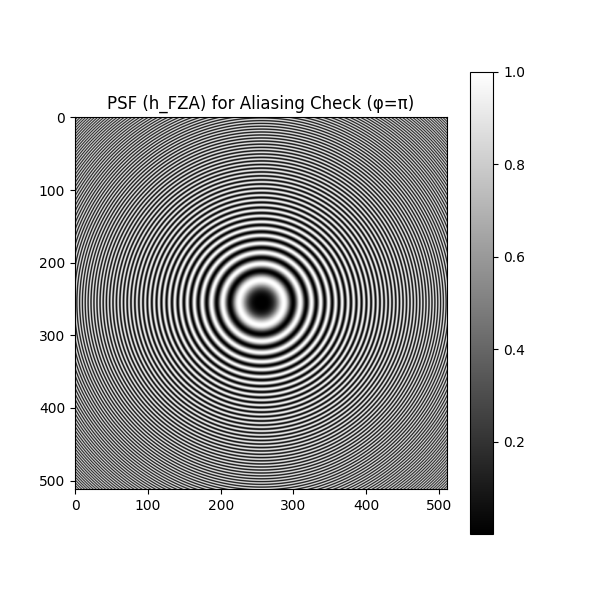
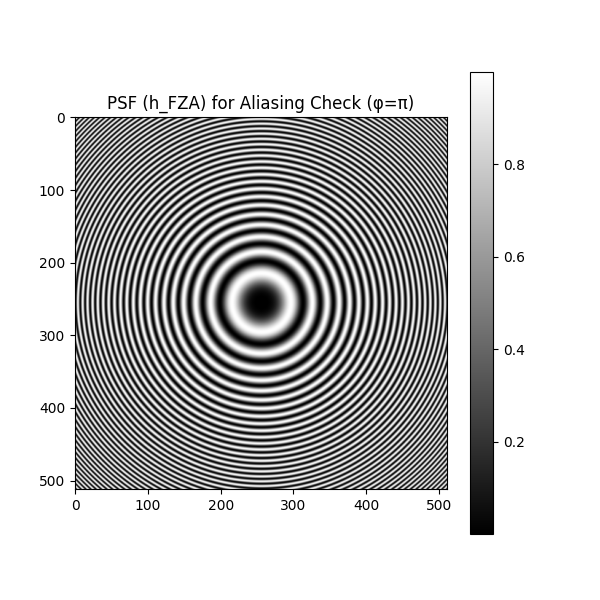
update

diff --git a/FZA_mask_reconstructed_add_noise_compare.py b/FZA_mask_reconstructed_add_noise_compare.py
@@ -35,67 +35,43 @@ def generate_code_images(R_ch,G_ch,B_ch,phases,beta_prime,X,Y):
 
 
 # ホワイトガウスノイズを付加、12bit量子化
-# def add_noise_and_quantization(coded_images,snr_db):
-#     print(f"\n{snr_db}dBのノイズ付加および12bit量子化...")
+def add_noise_and_quantization(coded_images,snr_db):
+    print(f"\n{snr_db}dBのノイズ付加および12bit量子化...")
 
-#     quantization_lebels=2**12-1
+    # 信号パワーの計算
+    signal_power=np.mean(coded_images[0]**2)
 
-#     # 信号パワーの計算
-#     signal_power=np.mean(coded_images[0]**2)
+    # ノイズパワーの計算とノイズ生成
+    # snr(dB)からノイズの標準偏差を計算
+    snr_linear=10**(snr_db/10)
+    noise_power=signal_power/snr_linear
+    noise_sigma=np.sqrt(noise_power)
 
-#     # ノイズパワーの計算とノイズ生成
-#     # snr(dB)からノイズの標準偏差を計算
-#     snr_linear=10**(snr_db/10)
-#     noise_power=signal_power/snr_linear
-#     noise_sigma=np.sqrt(noise_power)
-
-#     print(noise_sigma)
-
-#     noisy_images=[]
-#     for img in coded_images:
-#         # 各画像にガウスノイズを付加
-#         noise=np.random.normal(0,noise_sigma,img.shape)
-#         noisy_images.append(img+noise)
-    
-#     # 12bitへの量子化
-
-#     # すべてのノイズ付加画像に共通のスケールを適用するため最大値最小値をもとめる
-#     global_min=min(np.min(img) for img in noisy_images)
-#     global_max=max(np.max(img) for img in noisy_images)
-
-#     quantized_images=[]
-#     for img in noisy_images:
-#         # データを0～1の範囲にスケーリング
-#         scaled_img=(img-global_min)/(global_max-global_min)
-#         # 0～2095(2**12-1)の範囲に変換し整数を丸める
-#         quantized_img_int=np.round(scaled_img*quantization_lebels)
-#         # 後の研鑽のためにfloat型へ
-#         quantized_images.append(quantized_img_int.astype(np.float64))
-    
-#     print("処理終了")
-#     return quantized_images
-    
-import numpy as np
-
-def add_awgn_then_quantize_snr(coded_images, snr_db=30.0, bit_depth=12):
-    Q = 2**bit_depth - 1
-    # スケーリング基準はノイズ前のデータから取得
-    global_min = min(np.min(img) for img in coded_images)
-    global_max = max(np.max(img) for img in coded_images)
-    scale = Q / max(global_max - global_min, 1e-12)
-
-    # SNR[dB]→ノイズ標準偏差（ノイズはスケーリング前の単位で加える）
-    signal_power = np.mean(np.stack(coded_images, axis=0)**2)
-    noise_sigma = np.sqrt(signal_power / (10**(snr_db/10)))
-
-    out = []
+    noisy_images=[]
     for img in coded_images:
-        noisy = img + np.random.normal(0, noise_sigma, img.shape)     # AWGN
-        quantized = np.round((noisy - global_min) * scale)             # 12bit量子化
-        quantized = np.clip(quantized, 0, Q)
-        out.append(quantized.astype(np.float64))
-    return out
+        # 各画像にガウスノイズを付加
+        noise=np.random.normal(0,noise_sigma,img.shape)
+        noisy_images.append(img+noise)
+    
+    # 12bitへの量子化
+    quantization_lebels=2**12-1
 
+    # すべてのノイズ付加画像に共通のスケールを適用するため最大値最小値をもとめる
+    global_min=min(np.min(img) for img in noisy_images)
+    global_max=min(np.max(img) for img in noisy_images)
+
+    quantized_images=[]
+    for img in noisy_images:
+        # データを0～1の範囲にスケーリング
+        scaled_img=(img-global_min)/(global_max-global_min)
+        # 0～2095(2**12-1)の範囲に変換し整数を丸める
+        quantized_img_int=np.round(scaled_img*quantization_lebels)
+        # 後の研鑽のためにfloat型へ
+        quantized_images.append(quantized_img_int.astype(np.float64))
+    
+    print("処理終了")
+    return quantized_images
+    
 
 
 
@@ -212,7 +188,7 @@ def visualize_noise_effect(original_coded_img, processed_coded_img):
     # RGBのノイズを平均して白黒（グレースケール）に変換
     noise_grayscale = np.mean(noise_residual, axis=-1)
     
-    # print(noise_grayscale)
+    print(noise_grayscale)
 
     # --- 可視化 ---
     fig, axes = plt.subplots(1, 3, figsize=(18, 6))
@@ -292,6 +268,42 @@ def visualize_final_result(original_img, reconstructed_image_raw):
     plt.show()
 
 
+
+
+# 結果比較用の可視化関数
+def visualize_reconstruction_comparison(original, reconstructed_clean, reconstructed_noisy, snr_db):
+    """元画像、ノイズなし再構成画像、ノイズあり再構成画像を並べて表示する"""
+    
+    # 表示用に画像を0-255のuint8に正規化する関数
+    def normalize_for_display(img_raw):
+        img_min, img_max = np.min(img_raw), np.max(img_raw)
+        if img_max > img_min:
+            return ((img_raw - img_min) / (img_max - img_min) * 255).astype(np.uint8)
+        return img_raw.astype(np.uint8)
+
+    clean_display = normalize_for_display(reconstructed_clean)
+    noisy_display = normalize_for_display(reconstructed_noisy)
+    
+    fig, axes = plt.subplots(1, 3, figsize=(18, 6))
+    fig.suptitle("compare", fontsize=16)
+    
+    axes[0].imshow(original)
+    axes[0].set_title("original")
+    
+    axes[1].imshow(clean_display)
+    axes[1].set_title("reconstruncted (no noise)")
+    
+    axes[2].imshow(noisy_display)
+    axes[2].set_title(f"reconstruncted (add noise), SNR={snr_db}dB)")
+    
+    for ax in axes:
+        ax.axis('off')
+        
+    plt.tight_layout(rect=[0, 0, 1, 0.95])
+    plt.savefig('final_comparison.png')
+    plt.show()
+
+
 # -----------------------------------------------------------------------
 
 
@@ -327,21 +339,29 @@ if __name__ == '__main__':
 
     # 処理を順に実行
     # 符号化画像を生成
-    coded_images=generate_code_images(R_channel,G_channel,B_channel,phases,beta_prime,X,Y)
+    coded_images_clean=generate_code_images(R_channel,G_channel,B_channel,phases,beta_prime,X,Y)
 
-    # ホワイトガウスノイズ付加と量子化
-    snr_db=30.0
-    processed_coded_images=add_awgn_then_quantize_snr(coded_images, snr_db=30.0, bit_depth=12)
-    # ノイズの影響を可視化
-    visualize_noise_effect(coded_images[0], processed_coded_images[0])
-
-    # フリンジスキャンを実行
-    g_FS_R,g_FS_G,g_FS_B=synthesize_fringe_scan(processed_coded_images)
+    # --- 3. ケース1: ノイズなしの場合の再構成プロセス ---
+    print("\n--- ケース1: ノイズなし再構成を開始 ---")
+    g_FS_R_clean, g_FS_G_clean, g_FS_B_clean = synthesize_fringe_scan(coded_images_clean)
+    reconstructed_clean = reconstruct_image(g_FS_R_clean, g_FS_G_clean, g_FS_B_clean, beta_prime, X, Y)
+    print("✓ ノイズなし再構成完了")
     
-    # 画像を再生成
-    reconstructed_image_raw=reconstruct_image(g_FS_R,g_FS_G,g_FS_B,beta_prime,X,Y)
+    # --- 4. ケース2: ノイズありの場合の再構成プロセス ---
+    print("\n--- ケース2: ノイズあり再構成を開始 ---")
+    snr_db = 30.0
+    # まず、ノイズと量子化を追加
+    coded_images_noisy = add_noise_and_quantization(coded_images_clean, snr_db)
+    # **ノイズありのデータを使って**フリンジスキャンと再構成を実行
+    g_FS_R_noisy, g_FS_G_noisy, g_FS_B_noisy = synthesize_fringe_scan(coded_images_noisy)
+    reconstructed_noisy = reconstruct_image(g_FS_R_noisy, g_FS_G_noisy, g_FS_B_noisy, beta_prime, X, Y)
+    print("✓ ノイズあり再構成完了")
 
     # 結果の可視化
-    visualize_coded_images(input_image_uint8, coded_images, phase_labels)
-    visualize_synthesis_result(g_FS_R, g_FS_G, g_FS_B)
-    visualize_final_result(input_image_uint8, reconstructed_image_raw)
+    visualize_coded_images(input_image_uint8, coded_images_noisy, phase_labels)
+    visualize_synthesis_result(g_FS_R_noisy, g_FS_G_noisy, g_FS_B_noisy)
+    visualize_final_result(input_image_uint8, reconstructed_noisy)
+
+    # --- 5. 最終結果の比較可視化 ---
+    print("\n--- 最終結果を比較表示 ---")
+    visualize_reconstruction_comparison(input_image_uint8, reconstructed_clean, reconstructed_noisy, snr_db)

diff --git a/FZA_mask_reconstructed_improve.py b/FZA_mask_reconstructed_improve.py
@@ -17,8 +17,7 @@ def generate_code_images(R_ch,G_ch,B_ch,phases,beta_prime,X,Y):
         h_FZA=0.5*(1+np.cos(beta_prime*(X**2+Y**2)-phi))
 
         # FZAのエイリアシングを確認
-        if i==3:
-            visualize_psf(h_FZA)
+        visualize_psf(h_FZA,i)
 
         # 各カラーチャンネルで畳み込みを計算(式(3))
         coded_R=signal.fftconvolve(R_ch,h_FZA,mode='same')
@@ -134,14 +133,30 @@ def reconstruct_image(g_FS_R,g_FS_G,g_FS_B,beta_prime,X,Y):
 
 # 可視化用関数
 
-def visualize_psf(h_FZA):
+def visualize_psf(h_FZA,i):
     # PSFを画像として表示してエイリアシングを確認する
     plt.figure(figsize=(6, 6))
     plt.imshow(h_FZA, cmap='gray')
-    plt.title("PSF (h_FZA) for Aliasing Check (φ=3π/2)")
-    plt.colorbar()
-    plt.savefig('FZA_improve_phi_3pi_half.png')
-    plt.show()
+    if i==0:
+        plt.title("PSF (h_FZA) for Aliasing Check (φ=0)")
+        plt.colorbar()
+        plt.savefig('img/FZA/FZA_phi_0.png')
+        plt.show()
+    elif i==1:
+        plt.title("PSF (h_FZA) for Aliasing Check (φ=π/2)")
+        plt.colorbar()
+        plt.savefig('img/FZA/FZA_phi_pi_half.png')
+        plt.show()
+    elif i==2:
+        plt.title("PSF (h_FZA) for Aliasing Check (φ=π)")
+        plt.colorbar()
+        plt.savefig('img/FZA/FZA_phi_pi.png')
+        plt.show()
+    else:
+        plt.title("PSF (h_FZA) for Aliasing Check (φ=3π/2)")
+        plt.colorbar()
+        plt.savefig('img/FZA/FZA_phi_3pi_half.png')
+        plt.show()
 
 
 def visualize_coded_images(original_img,coded_images,phase_labels):
@@ -159,7 +174,7 @@ def visualize_coded_images(original_img,coded_images,phase_labels):
         axes[i+1].imshow(img_display)
         axes[i+1].set_title(f"Coded Image ({phase_labels[i]})")
     plt.tight_layout()
-    plt.savefig('coded_images_improve.png')
+    plt.savefig('img/coded_image/coded_images.png')
     plt.show()
 
 
@@ -198,7 +213,7 @@ def visualize_synthesis_result(g_FS_R, g_FS_G, g_FS_B):
     fig.colorbar(im2, ax=axes[2], orientation='vertical').set_label('Phase (radians)')
     
     plt.tight_layout(rect=[0, 0.03, 1, 0.95])
-    plt.savefig('fringe_scan_synthesis_improve.png')
+    plt.savefig('img/FS/fringe_scan_synthesis.png')
     plt.show()
 
 
@@ -218,7 +233,7 @@ def visualize_final_result(original_img, reconstructed_image_raw):
     axes[1].imshow(reconstructed_display)
     axes[1].set_title("Reconstructed Image (Conventional)")
     plt.tight_layout(rect=[0, 0.03, 1, 0.95])
-    plt.savefig('final_reconstruction_improve.png')
+    plt.savefig('img/final_image/final_reconstruction.png')
     plt.show()
 
 
@@ -230,7 +245,7 @@ if __name__ == '__main__':
     # パラメータの設定
     image_size=512
     grid_range=3.0
-    beta=25.0
+    beta=14.5
     d=5.0
     z=280.0
     M=d/z
@@ -258,7 +273,7 @@ if __name__ == '__main__':
     # 処理を順に実行
     # 符号化画像を生成
     coded_images=generate_code_images(R_channel,G_channel,B_channel,phases,beta_prime,X,Y)
-
+    
     # フリンジスキャンを実行
     g_FS_R,g_FS_G,g_FS_B=synthesize_fringe_scan(coded_images)
     
